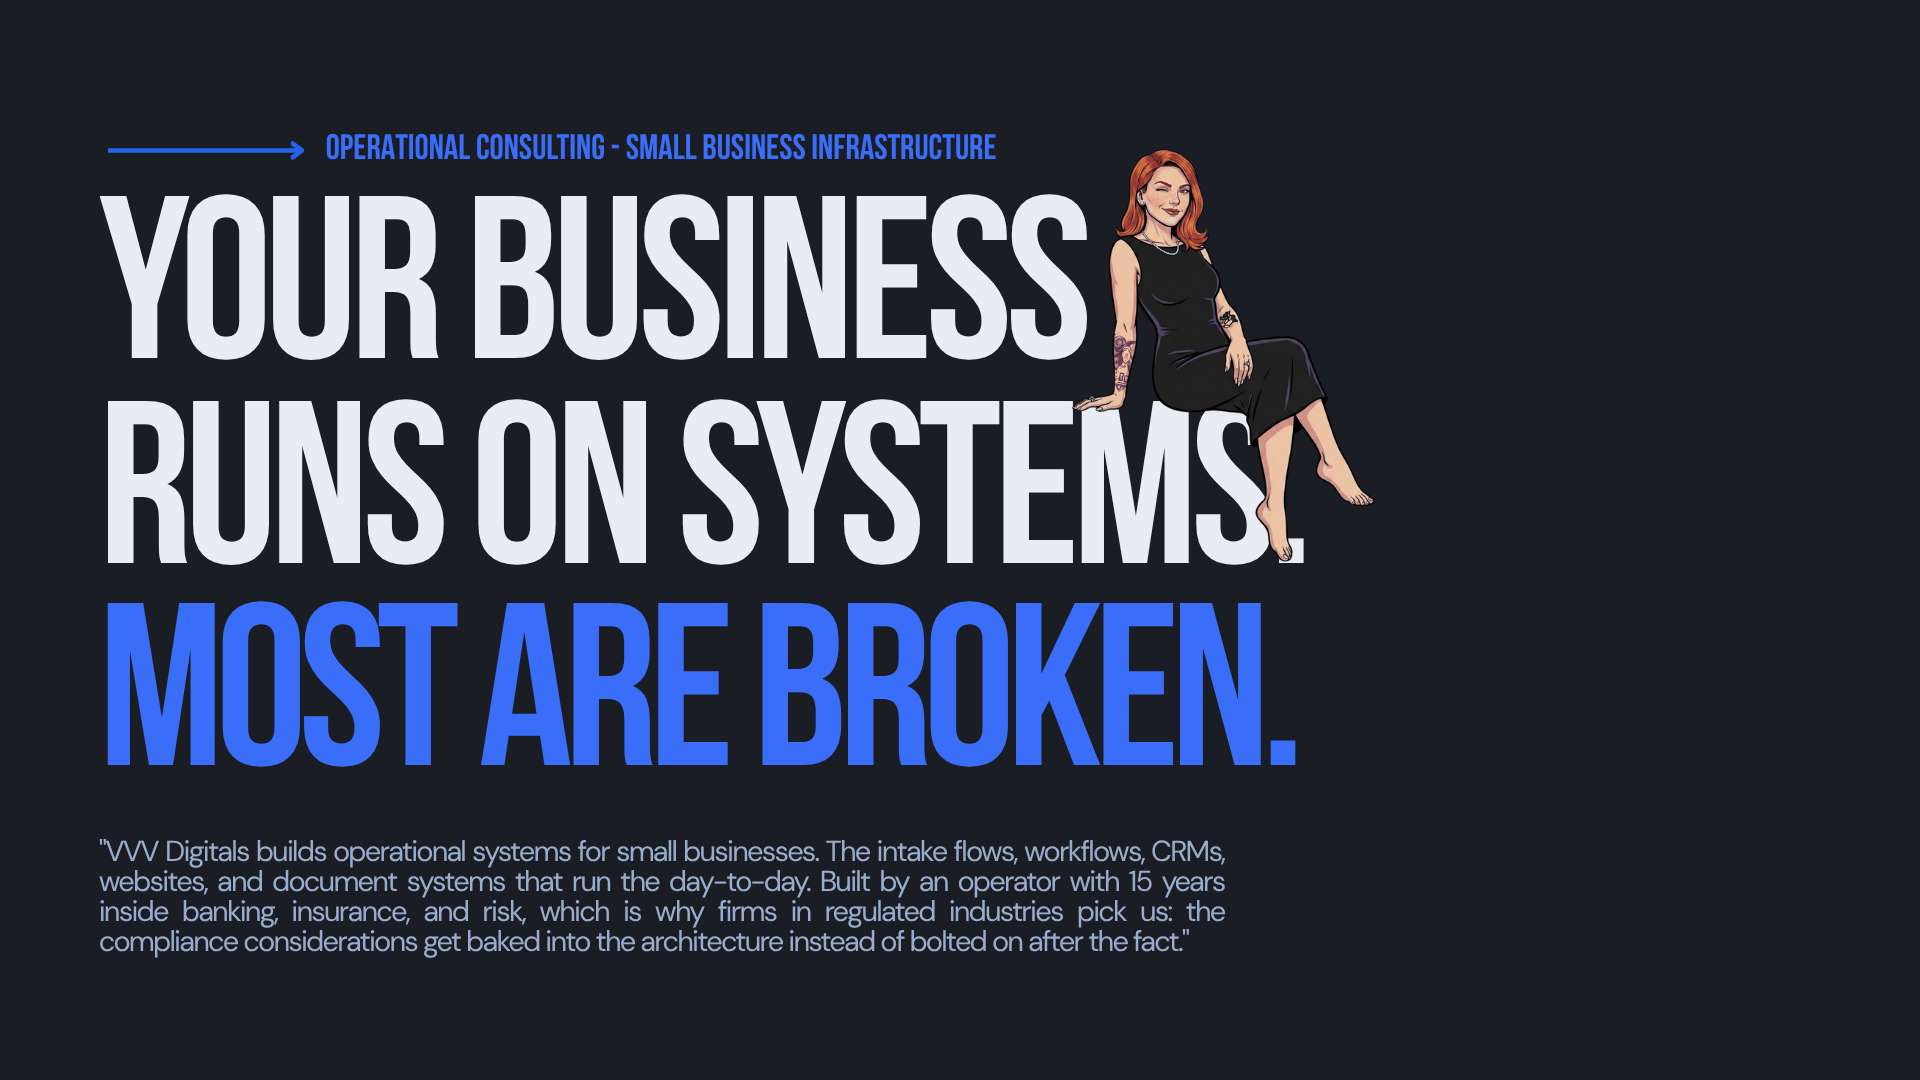
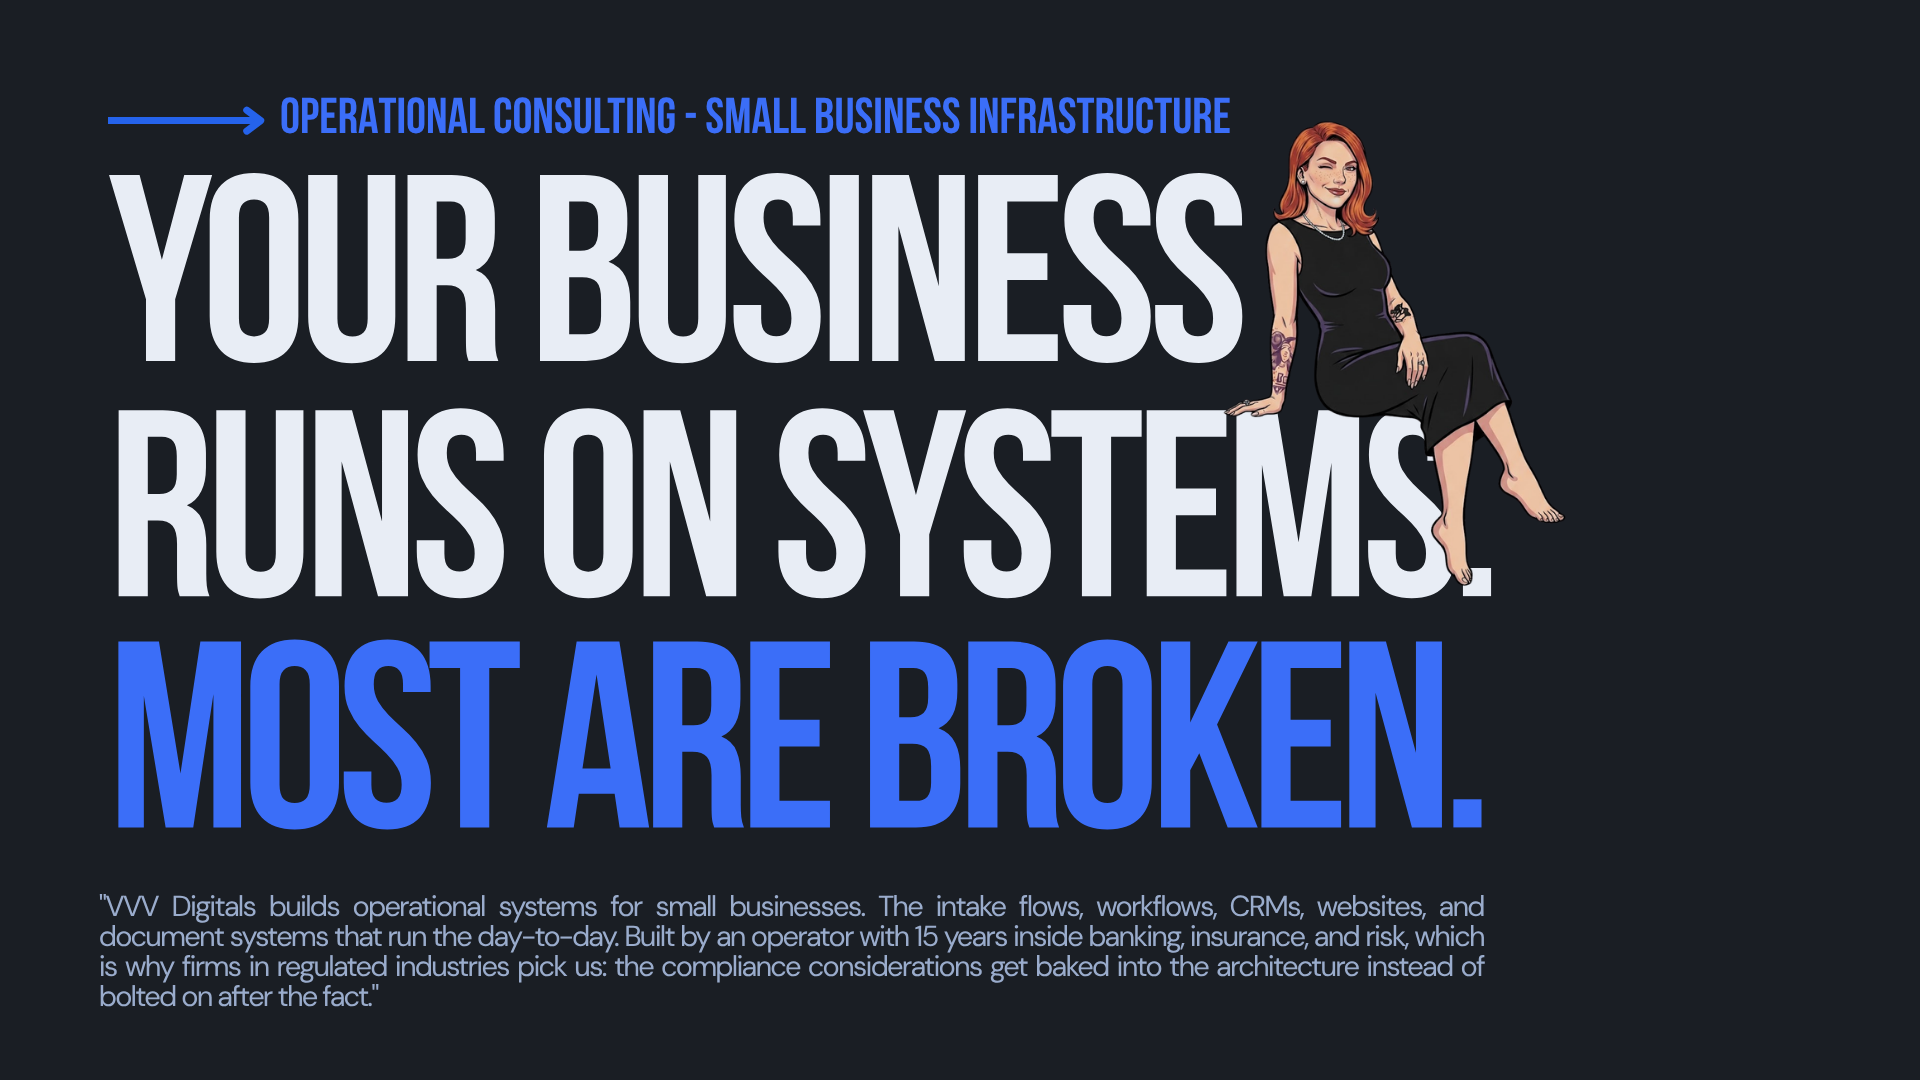
style(home): scale hero image up 35% and clip section overflow
STITCH.png now renders at 135% of the hero column width with a -17.5%
margin to keep it centered; section uses overflow:hidden so the bleed
never produces horizontal scroll on narrower viewports.

Changed region(s): [[0.0312, 0.0917, 0.8125, 0.9472]]

diff --git a/src/pages/Home.jsx b/src/pages/Home.jsx
@@ -348,7 +348,7 @@ const Home = () => {
       <Nav />
 
       {/* ── HERO ── */}
-      <section style={{ padding: '120px 0 140px', position: 'relative' }}>
+      <section style={{ padding: '120px 0 140px', position: 'relative', overflow: 'hidden' }}>
         <div style={sx}>
           <motion.div
             initial={{ opacity: 0, y: 32 }}
@@ -376,7 +376,9 @@ const Home = () => {
               animate={{ opacity: 1, y: 0 }}
               transition={{ duration: 0.9, delay: 0.2, ease: [0.22, 1, 0.36, 1] }}
               style={{
-                width: '100%', height: 'auto', display: 'block',
+                width: '135%', maxWidth: '135%',
+                height: 'auto', display: 'block',
+                marginLeft: '-17.5%',
                 marginBottom: 40,
               }}
             />